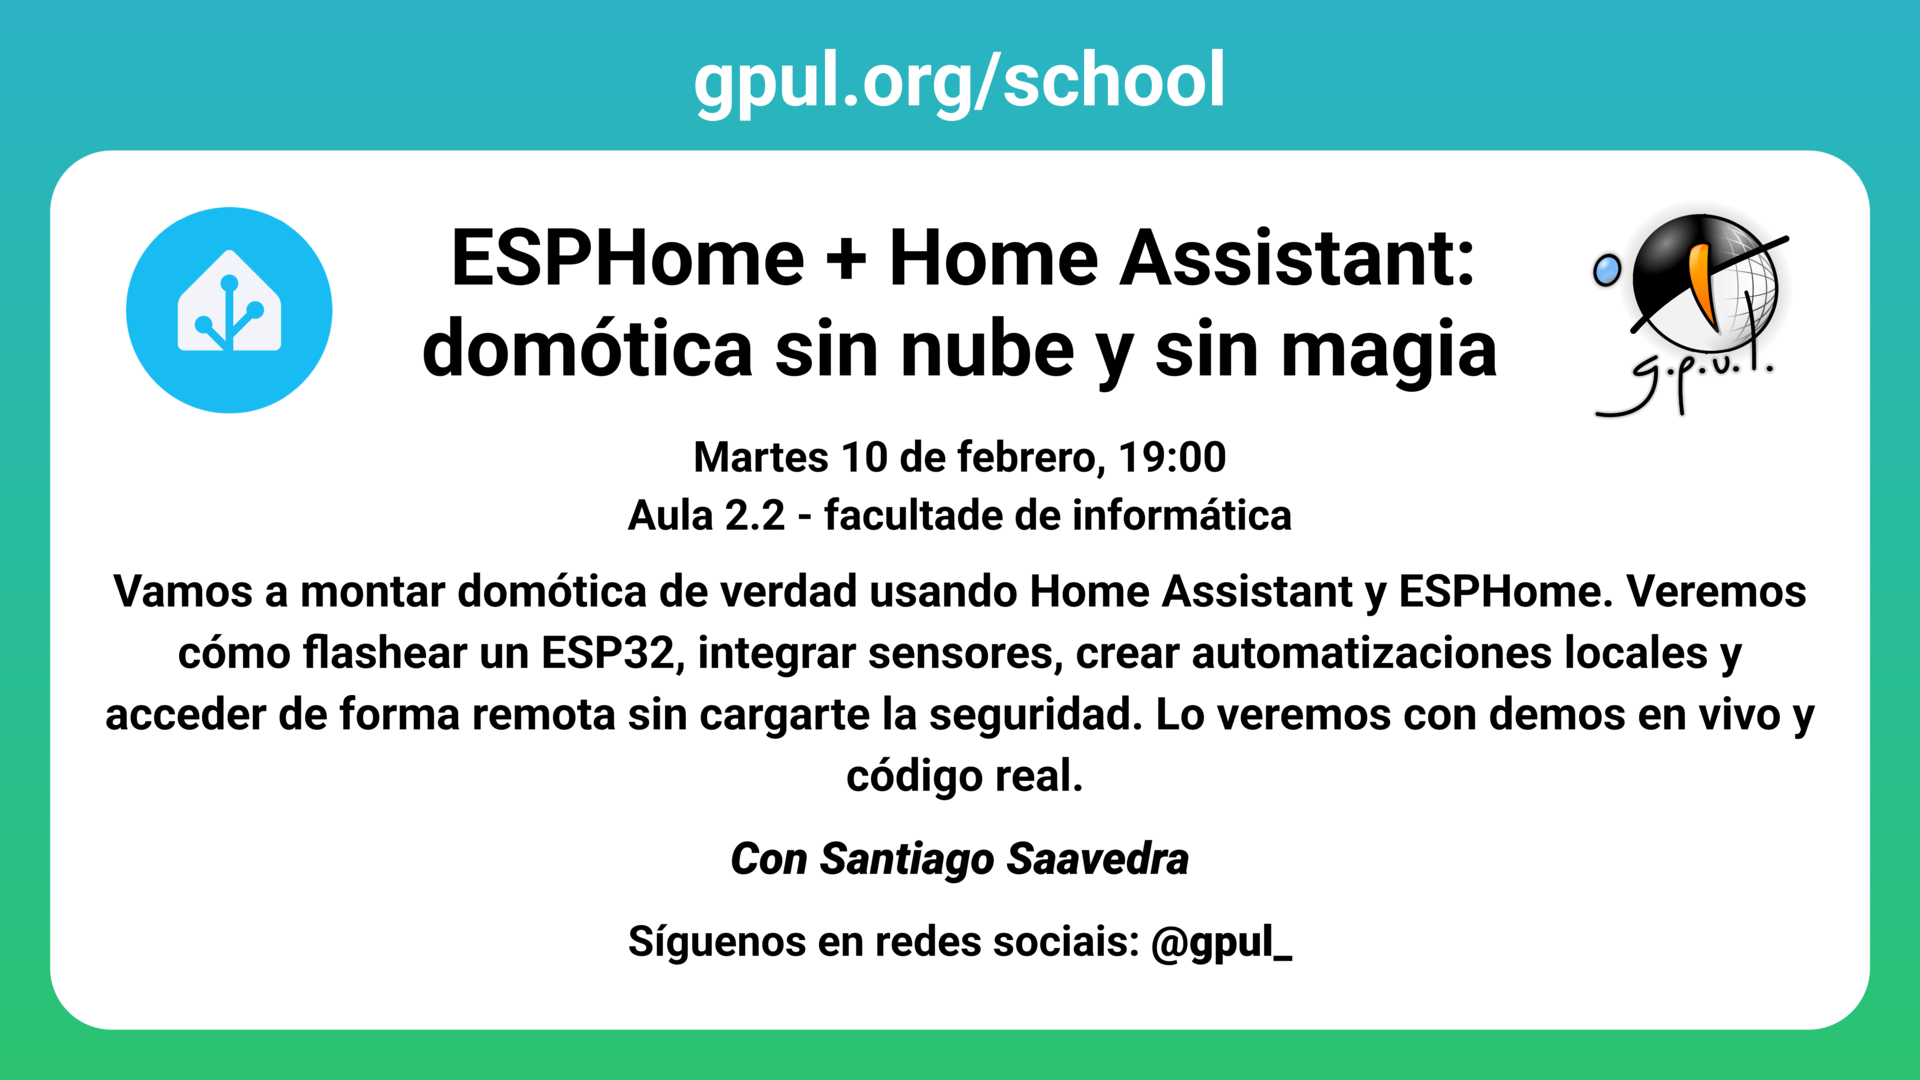
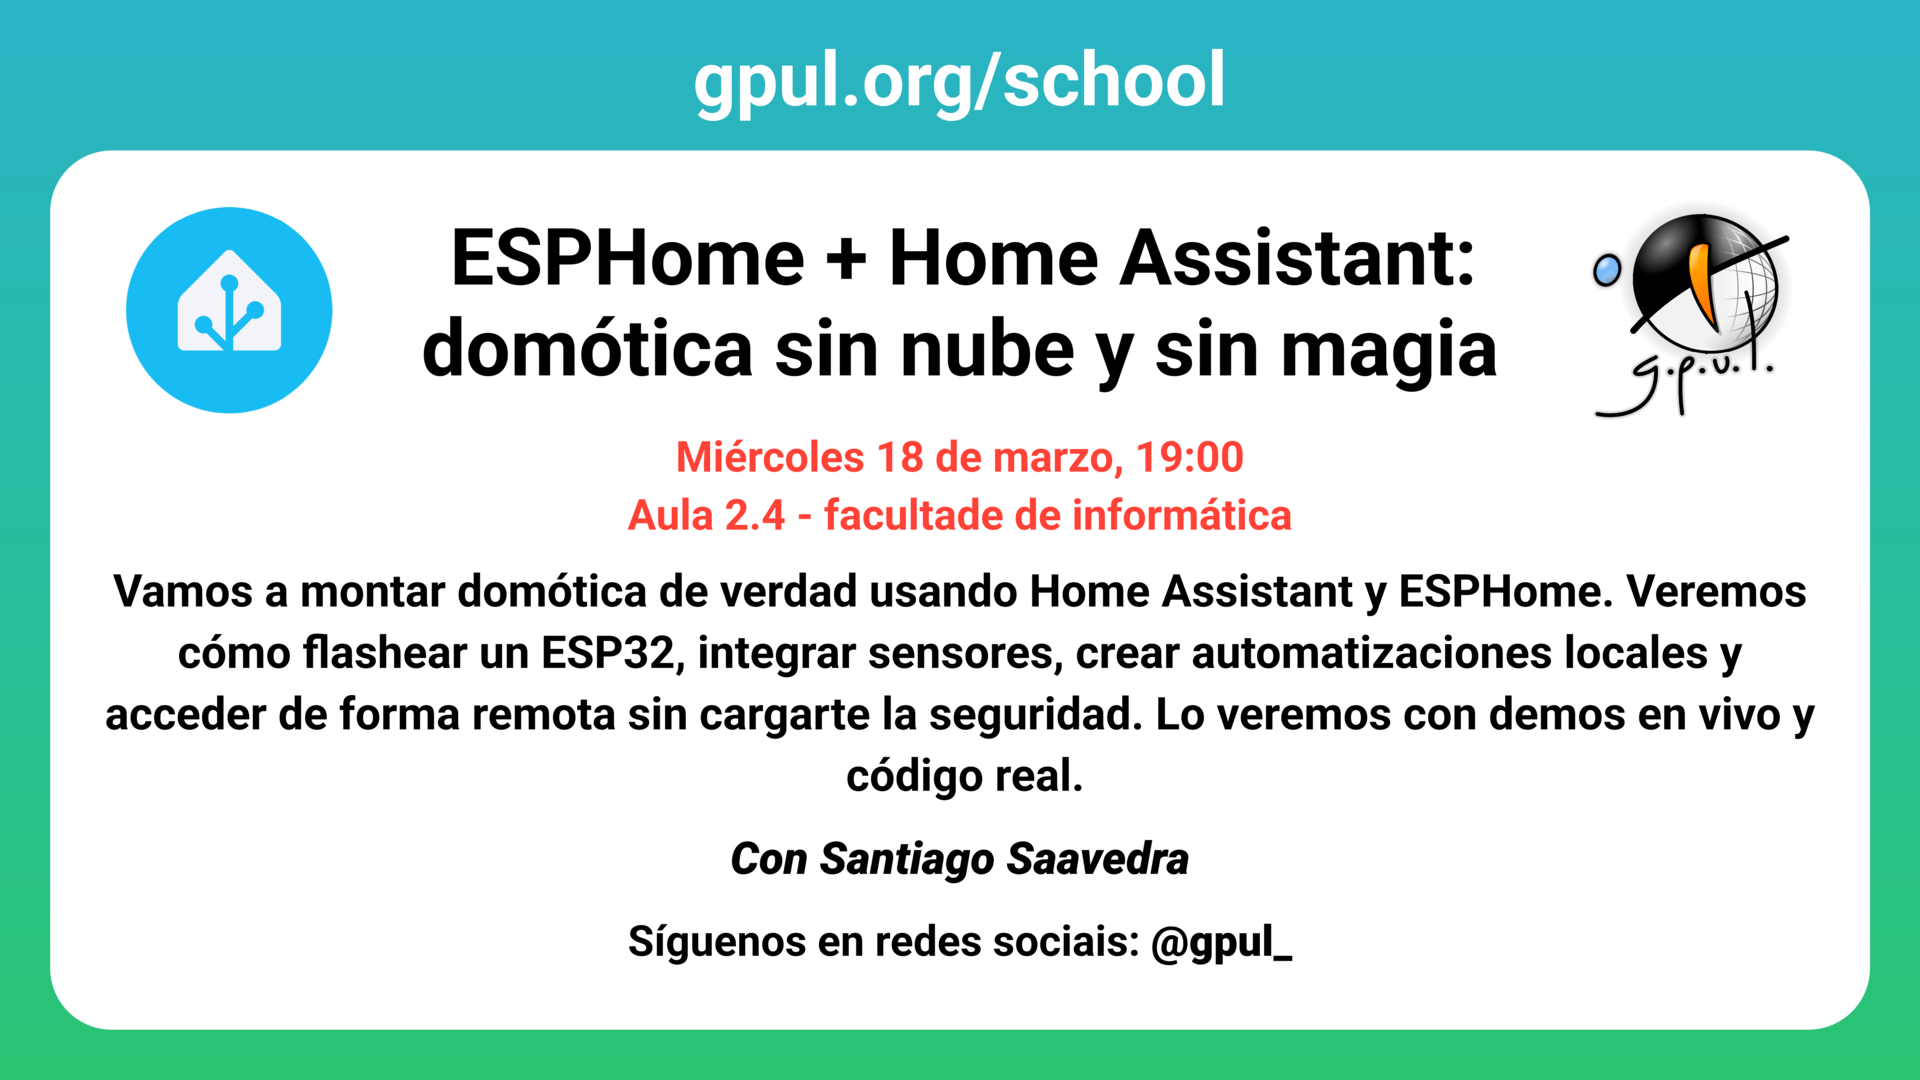
Actualizar charlas

Changed region(s): [[0.3125, 0.3972, 0.6875, 0.4889]]

diff --git a/src/content/eventos/2026/homeassistant-esphome.md b/src/content/eventos/2026/homeassistant-esphome.md
@@ -1,8 +1,8 @@
 ---
 title: "ESPHome + Home Assistant: domótica sin nube y sin magia"
 excerpt: "Vamos a montar domótica de verdad usando Home Assistant y ESPHome. Veremos cómo flashear un ESP32, integrar sensores, crear automatizaciones locales y acceder de forma remota sin cargarte la seguridad. Lo veremos con demos en vivo y código real."
-date: 2026-02-10T19:00:00
-location: Aula 2.2, Facultade de Informática
+date: 2026-03-10T18:00:00
+location: Aula 2.4, Facultade de Informática
 tags: ['School']
 status: upcoming
 authors: [ssaavedra]

diff --git a/src/content/eventos/2026/emprendemento.md b/src/content/eventos/2026/emprendemento.md
@@ -4,8 +4,9 @@ excerpt: "Algúnha vez pensaches en montar a túa propia startup, pero non sabes
 date: 2026-02-24T18:00:00
 location: Aula 2.4, Facultade de Informática
 tags: ['School']
-status: upcoming
+status: past
 authors: [castrinho8]
+video: https://youtu.be/0wCG67H8JtY
 ---
 
 Algúnha vez pensaches en montar a túa propia startup, pero non sabes por onde empezar? Ou crees que para triunfar hai que irse fóra? Esta charla é para ti.
